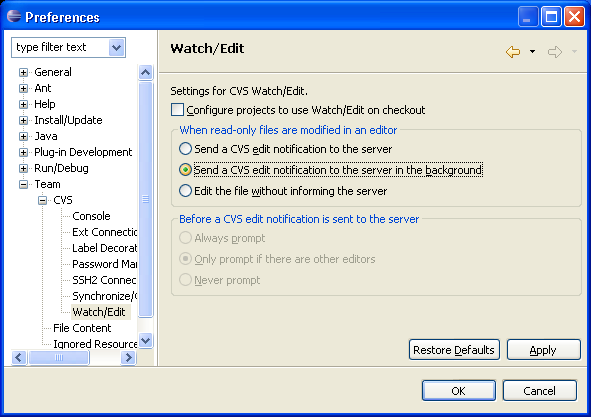
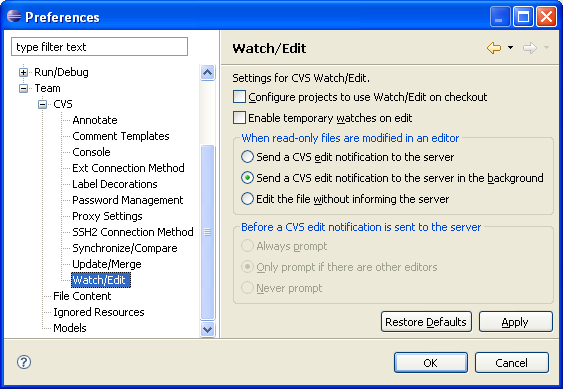
CVS Pref Pages Doc Update

diff --git a/bundles/org.eclipse.platform.doc.user/reference/ref-19.htm b/bundles/org.eclipse.platform.doc.user/reference/ref-19.htm
@@ -29,13 +29,21 @@ Team</H1>
         state of a resource displayed as text in the resource's label. By default, 
         only an icon decorator is used to identify a resource's synchronization 
         state.</TD>
-      <TD COLSPAN="1" valign="top" align="left">Off</TD>
+      <TD COLSPAN="1" valign="top" align="left">Disabled</TD>
     </TR>
   </THEAD>
   <TBODY>
+  	<TR> 
+      <TD COLSPAN="1" valign="top" align="left">Show the file author in compare
+      editors</TD>
+      <TD COLSPAN="1" valign="top" align="left">Use this option to display the file
+      author in all compare editors opened by an action on a repository provider (if 
+      supported by the repository provider)</TD>
+      <TD COLSPAN="1" valign="top" align="left">Disabled</TD>
+    </TR>
     <TR> 
-      <TD COLSPAN="1" valign="top" align="left">Choose the default Synchronize 
-        View layout</TD>
+      <TD COLSPAN="1" valign="top" align="left">Choose the presentation to be used when displaying 
+        Workspace projects</TD>
       <TD COLSPAN="1" valign="top" align="left">Use this option to configure the 
         default layout used when a synchronization is first added to the Synchronize 
         view. The layout can be subsequently changed in the view drop down menu.</TD>
@@ -53,7 +61,7 @@ Team</H1>
           <li><strong class="Para">Prompt</strong>: prompt to switch perspectives</li>
         </ul></TD>
       <TD ROWSPAN="1" COLSPAN="1" valign="top" align="left"> <P CLASS="Para"> 
-          Always</P></TD>
+          Prompt</P></TD>
     </TR>
     <TR> 
       <TD COLSPAN="1" valign="top" align="left">Perspectives</TD>

diff --git a/bundles/org.eclipse.platform.doc.user/reference/ref-19cvs-watch-edit.htm b/bundles/org.eclipse.platform.doc.user/reference/ref-19cvs-watch-edit.htm
@@ -28,6 +28,12 @@
     <TD valign="top" align="left">Disabled</TD>
   </TR>
   <TR> 
+    <TD valign="top" align="left">Enable temporary watches on edit</TD>
+    <TD valign="top" align="left"> Use this option to receive a notification whenever a user 
+    starts to edit a file that you are currently editing.</TD>
+    <TD valign="top" align="left">Disabled</TD>
+  </TR>
+  <TR> 
     <TD valign="top" align="left">When read-only files are modified in an editor</TD>
     <TD valign="top" align="left"> Use this option to configure what occurs when 
       a read-only file is modified in an open editor or by another tool. The options 
